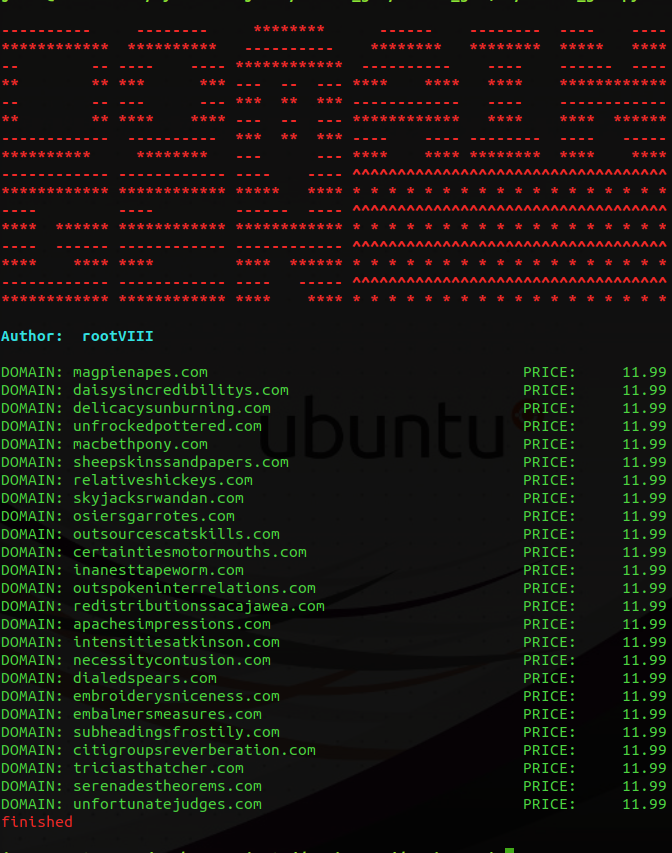
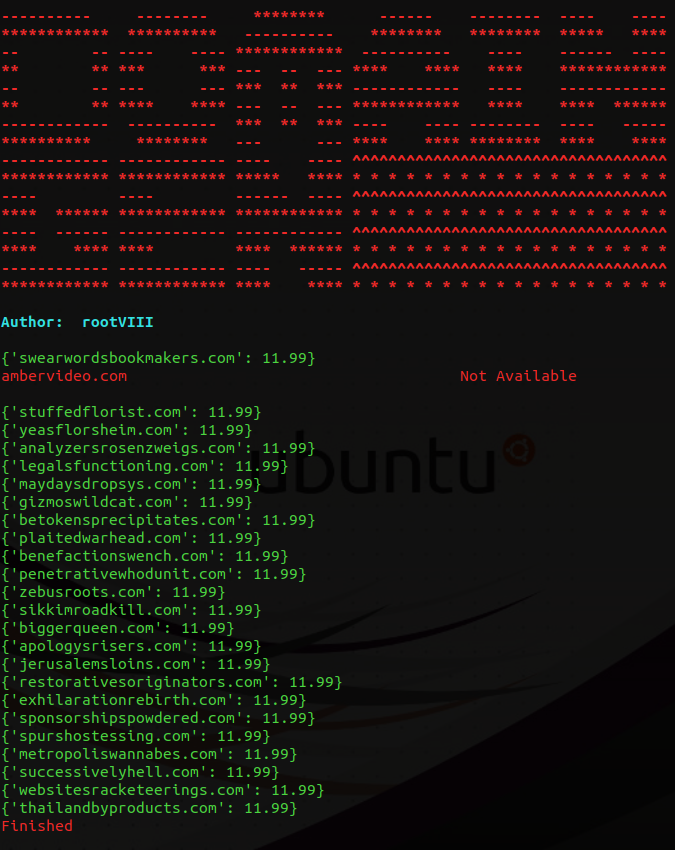
screenshot

diff --git a/domain_gen/utils/consumer.py b/domain_gen/utils/consumer.py
@@ -1,4 +1,5 @@
 #! /usr/bin/python3
+from pprint import pprint
 from .utils import print_red
 from .godaddy_api_wrapper import GodaddyApiWrapper
 
@@ -14,10 +15,9 @@ class Consumer:
             domain = self.que.get().lower()
             response = gd.call_endpoint(domain)
             if len(response) > 0:
-                record = 'DOMAIN: %-50s' % response['domain']
-                record += 'PRICE: %9s' % str(response['price'])
-                print(record)
-                self.domains.append({domain: response['price']})
+                record = {domain: response['price']}
+                self.domains.append(record)
+                pprint(record)
             else:
                 print_red('%-50s Not Available' % domain)
             self.que.task_done()

diff --git a/domain_gen/domain_gen.py b/domain_gen/domain_gen.py
@@ -27,7 +27,7 @@ def main():
     intro()
     q = Queue()
     consumer = Consumer(q)
-    for i in range(8):
+    for i in range(16):
         t = Thread(target=consumer.consume_domains)
         t.daemon = True
         t.start()

diff --git a/README.md b/README.md
@@ -27,7 +27,7 @@ write_to_file: False    -> available URLs/prices will be written to project root
 Unfortunatley GO Daddy has API restrictions that block repeated calls in succession (after 100-150).<br>
 
 Therefore the max_requests amount should be left no higher than 100 and the program can be ran every<br>
-30 seconds or so.
+30 seconds or so (lots of redlines in stdout is a sign that requests are being blocked).
 
 
 The program will terminate when <code>max_records</code> is reached or <code>ctrl-c</code> is pressed.
